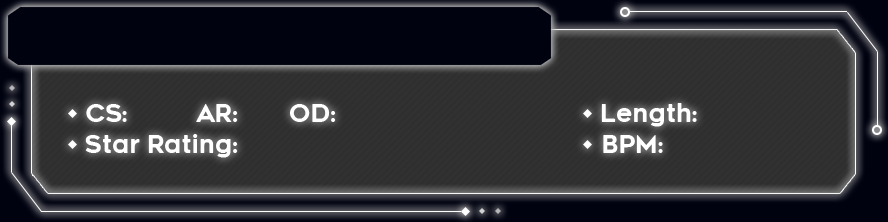
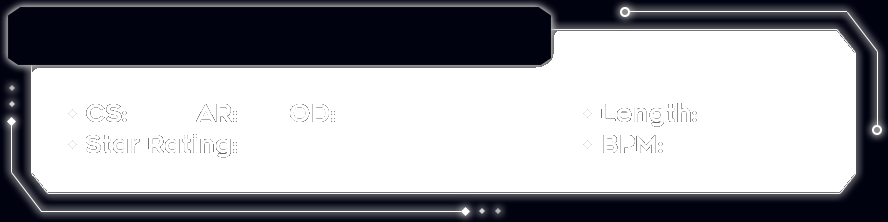
Now Playing - Gameplay

diff --git a/index.html b/index.html
@@ -34,7 +34,9 @@
                     <div class="playScores" id="playScoreBlue"></div>
                     <div class="playScores" id="playScorePurple"></div>
                     <div id="nowPlayingContainer">
-                        <img id="nowPlayingWrapperImage" src="static/nowPlayingteamBlue.png">
+                        <img class="nowPlayingWrapperImage" id="nowPlayingWrapperImageNeutral" src="static/nowPlayingNeutral.png">
+                        <img class="nowPlayingWrapperImage" style="opacity: 0" id="nowPlayingWrapperImageBlue" src="static/nowPlayingteamBlue.png">
+                        <img class="nowPlayingWrapperImage" style="opacity: 0" id="nowPlayingWrapperImagePurple" src="static/nowPlayingteamPurple.png">
                         <div id="mapContainer"></div>
                         <div class="mapTitleWrapper" id="mapTitleWrapper"><div id="mapTitle"></div></div>
                         <div class="mapTitleWrapper" id="mapTitleWrapper2">
@@ -72,15 +74,15 @@
                         <button class="panelButton purpleButton banButton" onclick="changeAction('Purple Ban');">Purple Ban</button>
                         <button class="panelButton blueButton protectButton" onclick="changeAction('Blue Protect');">Blue Protect</button>
                         <button class="panelButton purpleButton protectButton" onclick="changeAction('Purple Protect');">Purple Protect</button>
-                        <button class="panelButton resetButton resetPicks" onclick="reset();">Reset Picks</button>
-                        <button class="panelButton resetButton resetBans" onclick="reset();">Reset Bans</button>
-                        <button class="panelButton resetButton resetProtects" onclick="reset();">Reset Protects</button>
+                        <button class="panelButton resetButton resetPicks" onclick="reset('neutral');">Reset Picks</button>
+                        <button class="panelButton resetButton resetBans" onclick="reset('blue');">Reset Bans</button>
+                        <button class="panelButton resetButton resetProtects" onclick="reset('purple');">Reset Protects</button>
                         <button class="panelButton roundButton ro32button" onclick="changeRound('Round of 32');">RO32</button>
                         <button class="panelButton roundButton ro16button" onclick="changeRound('Round of 16');">RO16</button>
                         <button class="panelButton roundButton qfbutton" onclick="changeRound('Quarterfinals');">QF</button>
-                        <button class="panelButton roundButton sfbutton" onclick="changeRound('Semifinals');">SF</button>
-                        <button class="panelButton roundButton fbutton" onclick="changeRound('Finals');">F</button>
-                        <button class="panelButton roundButton gfbutton" onclick="changeRound('Grand Finals');">GF</button>
+                        <button class="panelButton roundButton bottomRoundButton sfbutton" onclick="changeRound('Semifinals');">SF</button>
+                        <button class="panelButton roundButton bottomRoundButton fbutton" onclick="changeRound('Finals');">F</button>
+                        <button class="panelButton roundButton bottomRoundButton gfbutton" onclick="changeRound('Grand Finals');">GF</button>
                         
                         <!-- Maybe someway to add the list of maps here idk so we can actually
                         chose what get protect/banned/picked-->

diff --git a/styles/display.css b/styles/display.css
@@ -331,14 +331,16 @@ body,html{
 	bottom: 15px; left: 20px;
 	background-size: contain;
 	background-repeat: no-repeat;
-	width: 416px; height: 75%;
+	width: 556px; height: 75%;
 	text-align: center;
 	align-content: center;
+	background-color: rgba(0,0,0,0.5);
 }
-#nowPlayingWrapperImage {
+.nowPlayingWrapperImage {
 	position: absolute;
 	width: 566px; height: 100%;
 	top: 0px; left: 0px;
+	transition-duration: 500ms;
 }
 #mapContainer {
 	position: relative;
@@ -353,15 +355,6 @@ body,html{
 	border-radius: 25px;
 	z-index: -1;
 	box-shadow: 100px 5px 5px  black;
-}
-#overlay {
-	position: absolute;
-	height: 130px;
-	width: 552px;
-	z-index: 0;
-    background-color: rgba(0,0,0,0.50);
-	border-radius: 25px;
-	left: -15px;
 }
 .mapTitleWrapper {
 	position: absolute; top: 12px; left: 15px;
@@ -499,65 +492,37 @@ body,html{
 	box-shadow: 0 8px 16px 0 rgba(0,0,0,0.2), 0 6px 20px 0 rgba(0,0,0,0.19);
 }
 
-.panelButton:hover {
-	box-shadow: 0 12px 16px 0 rgba(0,0,0,0.24), 0 17px 60px 0 rgba(0,0,0,0.19);
-}
+.panelButton:hover { box-shadow: 0 12px 16px 0 rgba(0,0,0,0.24), 0 17px 60px 0 rgba(0,0,0,0.19); }
 
 .panelButton:active {
 	background-color: black;
 	color: white;
 }
 
-.pickButton {
-	top: 250px;
-}
-
-.banButton {
-	top: 350px;
-}
-
-.protectButton {
-	top: 450px
-}
+.pickButton { top: 250px; }
+.banButton { top: 350px; }
+.protectButton { top: 450px }
 
 .blueButton {
 	background-color: var(--blue);
 	left: 30px;
 }
-
 .purpleButton {
 	background-color: var(--purple);
 	left: 135px;
 }
-
 .resetButton {
 	width: 183px;
 	left: 30px;
 }
 
-.resetPicks {
-	top: 550px;
-}
+.resetPicks { top: 550px; }
+.resetBans { top: 650px; }
+.resetProtects { top: 750px; }
 
-.resetBans {
-	top: 650px;
-}
-
-.resetProtects {
-	top: 750px;
-}
-
-.viewButton {
-	bottom: 30px
-}
-
-.pickView {
-	left: 30px;
-}
-
-.gameView {
-	left: 135px;
-}
+.viewButton { bottom: 30px }
+.pickView { left: 30px; } 
+.gameView { left: 135px; }
 .roundButton {
 	width: 55px;
 	height: 50px;
@@ -566,29 +531,12 @@ body,html{
 	background-color: #FF66AA;
 }
 
-.ro16button {
-	left: 95px;
-}
-
-.qfbutton {
-	left: 158px;
-}
-
-.sfbutton {
-	top: 910px;
-	left: 30px;
-}
-
-.fbutton {
-	top: 910px;
-	left: 95px;
-}
-
-.gfbutton {
-	top: 910px;
-	left: 158px;
-}
-
+.ro16button { left: 95px; }
+.qfbutton { left: 158px; }
+.bottomRoundButton { top: 910px; }
+.sfbutton { left: 30px; }
+.fbutton { left: 95px; } 
+.gfbutton { left: 158px; }
 
 /* CHAT DISPLAY */
 #chats {
@@ -638,28 +586,6 @@ body,html{
 .bot { color: #FF66AA; }
 .left { color: var(--blue); }
 .right { color: var(--purple); }
-
-/*Scrollbar*/
-::-webkit-scrollbar {
-	width: 10px;
-}
-
-/* Track */
-::-webkit-scrollbar-track {
-    margin-top: 25px;
-    margin-bottom: 25px;
-	visibility: 0;
-}
-
-/* Handle */
-::-webkit-scrollbar-thumb {
-	background: rgba(0,0,0,0);
-	border-radius: 10px;
-}
-.text{
-    display: flex;
-    justify-content: center;
-}
 
 /* ~~~~~~~~~~~~~~~~~~~ SPONSOR ~~~~~~~~~~~~~~~~~~~~~ */
 

diff --git a/js/display.js b/js/display.js
@@ -255,7 +255,7 @@ socket.onmessage = async event => {
 		scorePurpleTemp !== data.tourney.manager.stars.right) {
 		
 		// Best of
-		bestOfTemp =Math.ceil(data.tourney.manager.bestOF / 2)
+		bestOfTemp = Math.ceil(data.tourney.manager.bestOF / 2)
 
 		// Add Event
         if (scoreBlueTemp < data.tourney.manager.stars.left) {
@@ -459,11 +459,20 @@ socket.onmessage = async event => {
 
 }
 
-function changeAction(actionText) {
-	nextAction.innerText = actionText;
+function changeAction(actionText) { nextAction.innerText = actionText; }
+function changeRound(round) { roundText.innerText = round; }
+function reset(text) {
+	if (text == "neutral") {
+		document.getElementById("nowPlayingWrapperImageNeutral").style.opacity = 1;
+		document.getElementById("nowPlayingWrapperImageBlue").style.opacity = 0;
+		document.getElementById("nowPlayingWrapperImagePurple").style.opacity = 0;
+	} else if (text == "blue") {
+		document.getElementById("nowPlayingWrapperImageNeutral").style.opacity = 0;
+		document.getElementById("nowPlayingWrapperImageBlue").style.opacity = 1;
+		document.getElementById("nowPlayingWrapperImagePurple").style.opacity = 0;
+	} else {
+		document.getElementById("nowPlayingWrapperImageNeutral").style.opacity = 0;
+		document.getElementById("nowPlayingWrapperImageBlue").style.opacity = 0;
+		document.getElementById("nowPlayingWrapperImagePurple").style.opacity = 1;
+	}
 }
-
-function changeRound(round) {
-	roundText.innerText = round;
-}
-
